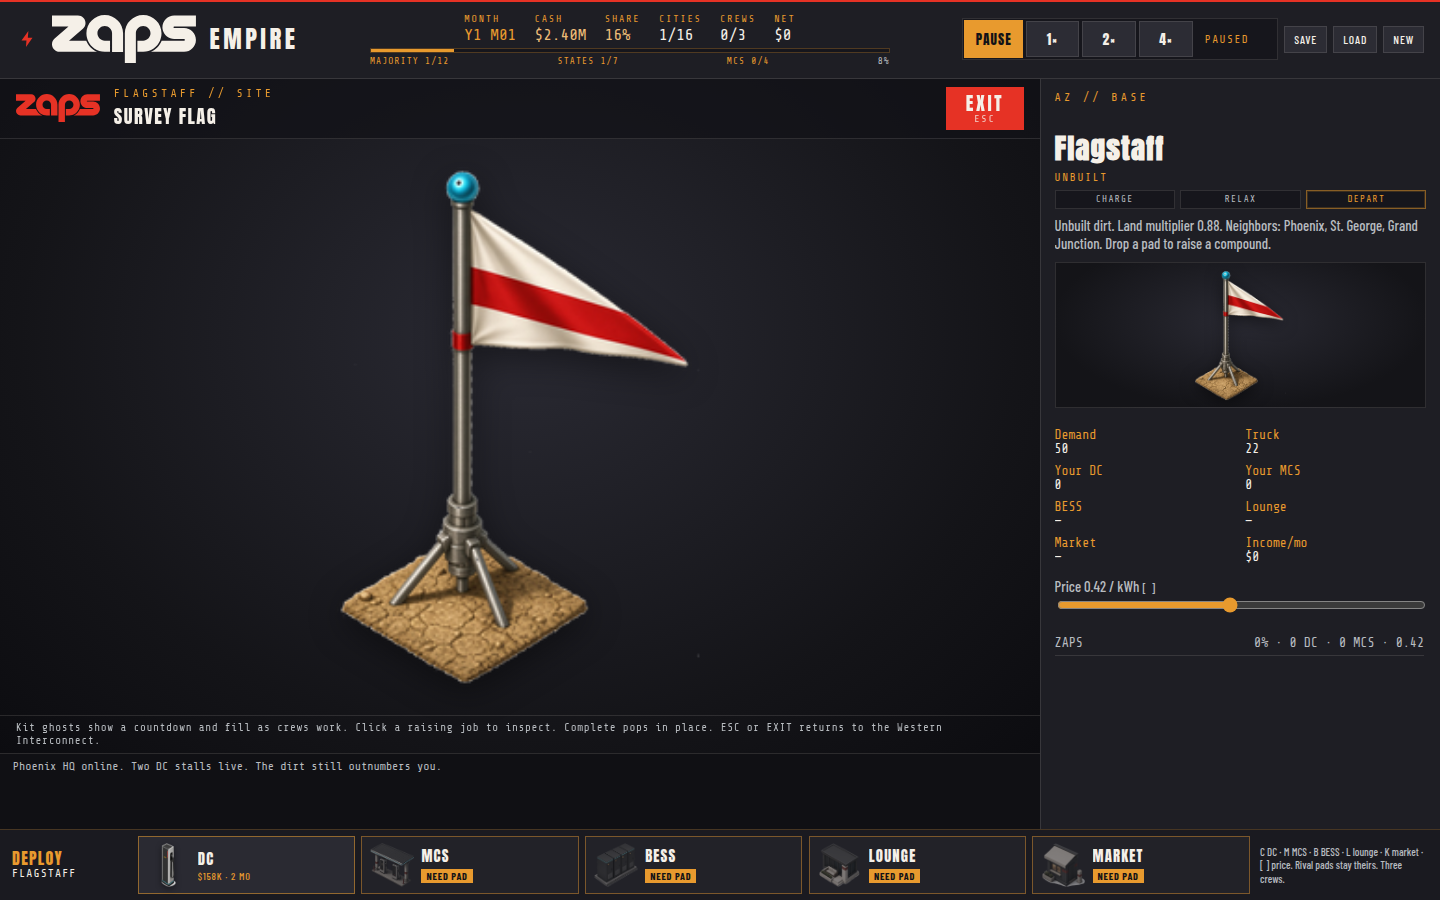
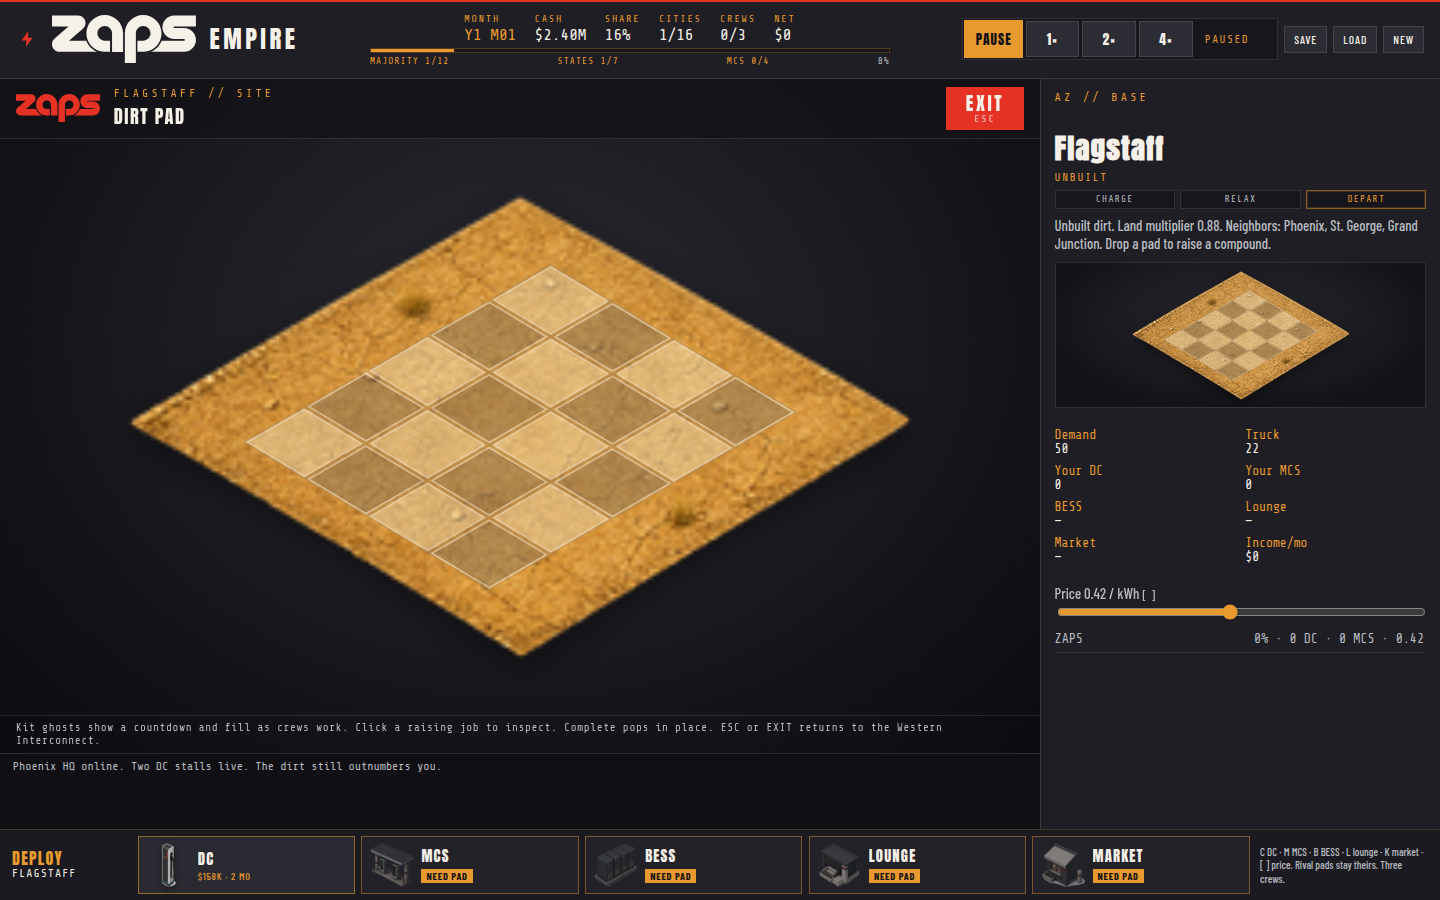
ZAPS EMPIRE: empty dirt pad, MCS violet ghost, field-call dock (rts-yard-16) (#26)
* ZAPS EMPIRE: empty dirt pad, MCS violet ghost, field-call dock (rts-yard-16)

Claimable empties open as a dirt chessboard instead of a survey-flag photo.
MCS raising ghosts use violet, not error red. Field-call sheet docks on the
map so inspector price and [ ] stay visible.

* Brighten MCS raising ghost to a clear lilac, not maroon

Keep violet language distinct from cyan DC/BESS and amber MARKET
while making the prism read as kit, never as a blocked/error edge.

* Refresh checked-in stills: dirt chessboard, violet MCS, docked field-call

Replace stale survey-flag heroes in yard-empty/yard-pad. Add yard-ghosts
and yard-event so REVIEW evidence matches live ?shot=empty/ghosts/event.

---------

diff --git a/game.js b/game.js
@@ -1,5 +1,5 @@
 /* ZAPS EMPIRE — Civ / C&C charging-continent board. Not the night-shift walk. */
-/* empire-build: rts-yard-15 */
+/* empire-build: rts-yard-16 */
 (() => {
   const SAVE_KEY = "zaps-empire-v2";
   const SAVE_LEGACY = "zaps-empire-v1";
@@ -22,7 +22,7 @@
     lot: "#F5F0E8",
   };
   const BOLT = "assets/brand/bolt-red.svg";
-  const SPRITE_V = "rts-yard-15";
+  const SPRITE_V = "rts-yard-16";
   const MAP_SPRITES = {
     flag: `assets/sprites/survey-flag.png?v=${SPRITE_V}`,
     dirt: `assets/sprites/dirt-pad.png?v=${SPRITE_V}`,
@@ -43,7 +43,7 @@
     voltspan: "240 / 204",
     rival: "240 / 167",
   };
-  const KIT_V = "rts-yard-15";
+  const KIT_V = "rts-yard-16";
   const KIT_SPRITES = {
     dc: `assets/sprites/kit-dc.png?v=${KIT_V}`,
     mcs: `assets/sprites/kit-mcs.png?v=${KIT_V}`,
@@ -982,6 +982,7 @@
     });
     row.append(yes, no);
     sheet.append(k, h, p, row);
+    sheet.classList.toggle("field-call", Boolean(state.pendingEvent));
     sheet.classList.remove("hidden");
   }
 
@@ -1755,8 +1756,10 @@
   }
 
   function yardBaseKind(city, meta) {
-    if (playerYard(city)) return "dirt";
-    return overlayBaseKind(mapSpriteKind(city, meta));
+    // Claimable empties and Zaps yards share the dirt chessboard.
+    // Rival compounds keep their photos. Do not paint a survey-flag hero.
+    if (rivalSite(city)) return overlayBaseKind(mapSpriteKind(city, meta));
+    return "dirt";
   }
 
   function jobList(cityId, type) {
@@ -1916,7 +1919,8 @@
       return { top: "#6a5a48", front: "#4a3e34", side: "#3a322c", edge: "rgba(232,154,46,0.95)" };
     }
     if (kind === "mcs") {
-      return { top: "#5a4848", front: "#3e3234", side: "#32282a", edge: "rgba(230,50,37,0.9)" };
+      // Electric violet — distinct from cyan DC/BESS and amber MARKET, never error-red.
+      return { top: "#9a86c8", front: "#7a68b0", side: "#645694", edge: "rgba(216,196,255,1)" };
     }
     if (kind === "bess") {
       return { top: "#3a4a52", front: "#2a383e", side: "#222e34", edge: "rgba(0,212,245,0.95)" };
@@ -2302,9 +2306,8 @@
   function kitLayersHtml(city) {
     const occ = kitOccupancy(city);
     const any = occ.dc + occ.mcs + occ.bess + occ.lounge + occ.market;
-    if (!any) return "";
     const inner =
-      plazaGeom(occ) +
+      (any ? plazaGeom(occ) : boardEtch()) +
       drawBess(occ) +
       drawMcs(occ) +
       drawLounge(occ) +
@@ -2312,7 +2315,7 @@
       drawDcCanopy(occ) +
       drawDcRow(occ) +
       ghostCaptions(occ);
-    return overlaySvg("site-compound", inner);
+    return overlaySvg(any ? "site-compound" : "site-compound empty-board", inner);
   }
 
   function siteRaisingBanner(cityId) {
@@ -2420,7 +2423,7 @@
       ? "RIVAL SITE"
       : contested
         ? "CONTESTED"
-        : SITE_TYPE_NAME[kind] || "SITE";
+        : SITE_TYPE_NAME[baseKind] || SITE_TYPE_NAME[kind] || "SITE";
     const intel = $("site-overlay-intel");
     if (intel) {
       const rival = strongestRival(city);
@@ -2889,6 +2892,16 @@
       selected = "phoenix";
       return "phoenix";
     }
+    if (name === "ghosts" || name === "raising-mcs" || name === "mcs-ghost") {
+      z("flagstaff").dc = 2;
+      state.queue.push(
+        { faction: YOU, city: "flagstaff", type: "mcs", left: 3, cost: 0 },
+        { faction: YOU, city: "flagstaff", type: "bess", left: 4, cost: 0 },
+        { faction: YOU, city: "flagstaff", type: "market", left: 2, cost: 0 }
+      );
+      selected = "flagstaff";
+      return "flagstaff";
+    }
     if (name === "rival" || name === "rival-blocked") {
       selected = "la";
       return "la";
@@ -3005,7 +3018,7 @@
   }
 
   window.__EMPIRE_SMOKE__ = {
-    build: "rts-yard-15",
+    build: "rts-yard-16",
     hitR: CITY_HIT_R,
     goldilocks: 0.76,
     nearestCity,

diff --git a/styles.css b/styles.css
@@ -1,4 +1,4 @@
-/* empire-build: rts-yard-15 */
+/* empire-build: rts-yard-16 */
 :root {
   --red: #e63225;
   --charcoal: #1e1e24;
@@ -826,6 +826,15 @@ button {
   fill: rgba(90, 70, 42, 0.2);
 }
 
+.site-overlay-svg.empty-board .site-board-etch {
+  fill: rgba(232, 210, 160, 0.34);
+  stroke: rgba(245, 240, 232, 0.5);
+}
+
+.site-overlay-svg.empty-board .site-board-etch.odd {
+  fill: rgba(90, 70, 42, 0.34);
+}
+
 .site-tile-curb {
   fill: #efe6d4;
   stroke: #9a8460;
@@ -891,8 +900,8 @@ button {
 }
 
 .site-tile-reserve.kind-mcs {
-  stroke: #e63225;
-  fill: rgba(230, 50, 37, 0.12);
+  stroke: #c4a8ff;
+  fill: rgba(196, 168, 255, 0.22);
 }
 
 .site-tile-reserve.kind-lounge {
@@ -916,7 +925,7 @@ button {
 }
 
 .site-tile-progress.kind-mcs {
-  fill: rgba(230, 50, 37, 0.3);
+  fill: rgba(196, 168, 255, 0.4);
 }
 
 .site-tile-progress.kind-lounge {
@@ -1084,7 +1093,7 @@ button {
 }
 
 .site-stall.mcs {
-  stroke: rgba(230, 50, 37, 0.55);
+  stroke: rgba(196, 168, 255, 0.85);
 }
 
 .site-equip {
@@ -1414,27 +1423,38 @@ button {
 }
 
 .deal-sheet {
-  position: fixed;
-  top: 72px;
-  right: 16px;
-  z-index: 36;
-  width: min(340px, 92vw);
+  position: absolute;
+  top: 12px;
+  left: 12px;
+  right: auto;
+  z-index: 30;
+  width: min(360px, calc(100% - 24px));
+  max-width: 360px;
   background: var(--panel);
   border: 1px solid var(--amber);
-  padding: 0.9rem 1rem;
+  padding: 0.55rem 0.7rem 0.6rem;
   box-shadow: 0 12px 32px rgba(0, 0, 0, 0.5);
+}
+
+.map-stage:has(.site-overlay:not(.hidden)) .deal-sheet {
+  top: 64px;
+}
+
+.deal-sheet .kicker {
+  margin: 0 0 0.2rem;
 }
 
 .deal-sheet h3 {
   font-family: Anton, sans-serif;
-  margin: 0 0 0.4rem;
-  font-size: 1.35rem;
+  margin: 0 0 0.25rem;
+  font-size: 1.15rem;
+  letter-spacing: 0.04em;
 }
 
 .deal-sheet p {
   color: var(--steel);
-  font-size: 0.88rem;
-  margin: 0 0 0.8rem;
+  font-size: 0.8rem;
+  margin: 0 0 0.5rem;
 }
 
 .deal-sheet .modal-actions {
@@ -1541,7 +1561,12 @@ button {
 }
 
 .price-row {
-  margin: 0.8rem 0;
+  position: sticky;
+  bottom: 0;
+  z-index: 3;
+  margin: 0.55rem 0 0;
+  padding: 0.45rem 0 0.15rem;
+  background: linear-gradient(180deg, rgba(30, 30, 36, 0) 0%, var(--charcoal) 28%);
 }
 
 .price-row small {

diff --git a/index.html b/index.html
@@ -15,8 +15,8 @@
       href="https://fonts.googleapis.com/css2?family=Anton&family=Barlow+Condensed:wght@500;600;700&family=Share+Tech+Mono&display=swap"
       rel="stylesheet"
     />
-    <meta name="empire-build" content="rts-yard-15" />
-    <link rel="stylesheet" href="styles.css?v=rts-yard-15" />
+    <meta name="empire-build" content="rts-yard-16" />
+    <link rel="stylesheet" href="styles.css?v=rts-yard-16" />
   </head>
   <body>
     <section id="title-screen" class="screen" data-screen="title">
@@ -167,6 +167,7 @@
                 returns to the Western Interconnect.
               </p>
             </div>
+            <aside id="deal-sheet" class="deal-sheet hidden" aria-live="polite"></aside>
           </div>
           <aside class="ticker" id="ticker" aria-live="polite"></aside>
         </div>
@@ -199,12 +200,11 @@
     </section>
 
     <div id="toasts" class="toasts" aria-live="polite"></div>
-    <aside id="deal-sheet" class="deal-sheet hidden" aria-live="polite"></aside>
 
     <div id="modal" class="modal hidden" role="dialog" aria-modal="true">
       <div class="modal-card" id="modal-card"></div>
     </div>
 
-    <script src="game.js?v=rts-yard-15"></script>
+    <script src="game.js?v=rts-yard-16"></script>
   </body>
 </html>

diff --git a/docs/shots/REVIEW.md b/docs/shots/REVIEW.md
@@ -1,8 +1,8 @@
-# Empire playtest — rts-yard-15
+# Empire playtest — rts-yard-16
 
-Replay stills (paused board, no title): `?shot=board` · `?shot=empty` (Flagstaff dirt) · `?shot=raising` · `?shot=full` · `?shot=rival` (LA blocked tray) · `?shot=contested` (Vegas share meters) · `?shot=event` (MATCH/HOLD field call) · `?showcase=1`.
+Replay stills (paused board, no title): `?shot=board` · `?shot=empty` (Flagstaff dirt chessboard) · `?shot=ghosts` (MCS violet + BESS/MARKET) · `?shot=raising` · `?shot=full` · `?shot=rival` (LA blocked tray) · `?shot=contested` (Vegas share meters) · `?shot=event` (MATCH/HOLD field call, inspector price visible) · `?showcase=1`.
 
-Checked-in frames: `board.png` · `yard-empty.png` · `yard-raising.png` · `yard-full.png` · `yard-rival.png` · `yard-contested.png`.
+Checked-in frames: `board.png` · `yard-empty.png` · `yard-pad.png` · `yard-ghosts.png` · `yard-event.png` · `yard-raising.png` · `yard-full.png` · `yard-rival.png` · `yard-contested.png`.
 
 ## Visual (Terminal Electromat)
 
@@ -11,9 +11,10 @@ Yards are miniature Electromat compounds, not generic RTS cubes.
 - **DC** — Slim Zeus row: tall brushed-aluminum pedestals, charcoal recess, amber display, red mark, twin holsters, cyan base hairline, short cables.
 - **Canopy** — thin cream roof, cylindrical aluminum posts, recessed warm coffers, cyan edge, thin red fascia.
 - **Lounge** — cream pavilion silhouette, smoked portals with amber glow, aluminum lip. No forced cyan in the lounge core.
-- **MCS** — truck island: low charcoal cabinet + heavier dispensers under an aluminum bay.
+- **MCS** — truck island: low charcoal cabinet + heavier dispensers under an aluminum bay. Raising ghosts use **violet** edges (not error red).
 - **BESS** — cabinet farm with amber data strips (not cyan-capped cubes).
 - **Market** — charcoal kiosk, cream awning, amber board.
+- **Empty claimable** — dirt-pad photo + empty 5×4 chessboard etch. No survey-flag hero.
 
 Chessboard snap and Goldilocks frame (76% / cap 800) are unchanged.
 
@@ -21,12 +22,12 @@ Chessboard snap and Goldilocks frame (76% / cap 800) are unchanged.
 
 - Contested markets pull harder on price (elasticity 1.85) and take corridor pull from neighboring pads.
 - Rivals prefer fighting cities you already hold — lounge/market first, occasional cent cuts.
-- Field calls fire earlier and more often (about every 2–4 months): undercut, grid strain, amenity lounge, corridor poach. The sheet auto-opens. MATCH / HOLD / QUEUE LOUNGE stay real decisions.
+- Field calls fire earlier and more often (about every 2–4 months): undercut, grid strain, amenity lounge, corridor poach. The sheet auto-opens **on the map column** so inspector price + `[` `]` stay visible. MATCH / HOLD / QUEUE LOUNGE stay real decisions.
 - HUD campaign track shows continental share plus MAJORITY / STATES / MCS toward the win.
 
 ## UX
 
-Deploy tray and inspector are amber-on-charcoal terminal UI. CHARGE / RELAX / DEPART triad on the inspector. Toasts stack (up to 3), stats tick, share meters animate.
+Deploy tray and inspector are amber-on-charcoal terminal UI. CHARGE / RELAX / DEPART triad on the inspector. Toasts stack (up to 3), stats tick, share meters animate. Inspector price row is sticky.
 
 ## Ownership (hold from #24)
 
@@ -40,12 +41,14 @@ Goldilocks yard scale **unchanged**: full pad + a bit of sand margin, about **76
 
 ## Playtest notes
 
-1. Open `?shot=empty` — Flagstaff dirt, DC live, Slim Zeus ghost on hover.
-2. Open `?shot=raising` — Phoenix ghosts with coffered canopy already live on the two-stall row.
-3. Open `?shot=full` — Flagstaff reads as a station: Zeus row, MCS island, BESS farm, lounge pavilion, market kiosk.
-4. Open `?shot=rival` — LA overlay reads RIVAL SITE, tray chips amber, DC click does not enqueue.
-5. Open `?shot=contested` — Vegas meters Zaps vs VOLTSPAN; drag price, share toast/flash.
-6. Open `?shot=board` — campaign track under the resource bar. Phoenix still starts paused.
+1. Open `?shot=empty` — Flagstaff dirt pad, empty 5×4 chessboard, no flag photo. DC hover still ghosts a Slim Zeus.
+2. Open `?shot=ghosts` — Flagstaff MCS raising ghost is violet, not red, next to cyan BESS and amber MARKET.
+3. Open `?shot=event` — FIELD CALL docks on the yard; MATCH / HOLD stay on the map. Inspector price slider and `[` `]` remain visible.
+4. Open `?shot=raising` — Phoenix ghosts with coffered canopy already live on the two-stall row.
+5. Open `?shot=full` — Flagstaff reads as a station: Zeus row, MCS island, BESS farm, lounge pavilion, market kiosk.
+6. Open `?shot=rival` — LA overlay reads RIVAL SITE, tray chips amber, DC click does not enqueue.
+7. Open `?shot=contested` — Vegas meters Zaps vs VOLTSPAN; drag price, share toast/flash.
+8. Open `?shot=board` — campaign track under the resource bar. Phoenix still starts paused.
 
 ## Verdict
 
@@ -54,7 +57,9 @@ Goldilocks yard scale **unchanged**: full pad + a bit of sand margin, about **76
 | Instant-read silhouettes | **RAISE** | Zeus ≠ MCS island ≠ BESS farm ≠ lounge pavilion ≠ market kiosk |
 | Terminal Electromat look | **RAISE** | cream coffers, Slim Zeus, lounge portals |
 | Rival pad seizure | **HOLD** | LA/Dallas/Denver tray = RIVAL SITE; enqueue no-ops |
-| Empty claim | **HOLD** | Flagstaff DC still deploys |
+| Empty claim | **RAISE** | Flagstaff opens as dirt chessboard, not survey-flag photo |
+| MCS ghost language | **RAISE** | violet, not error-red; still ≠ cyan DC/BESS ≠ amber MARKET |
+| Field-call agency | **RAISE** | sheet docks on the map; inspector price + `[` `]` stay up |
 | Contested share | **RAISE** | steeper price fight + corridor pull + heat |
 | Decision events | **RAISE** | undercut / strain / amenity / poach, auto-open |
 | Win / progress | **RAISE** | HUD campaign track MAJORITY / STATES / MCS |
@@ -64,4 +69,4 @@ Goldilocks yard scale **unchanged**: full pad + a bit of sand margin, about **76
 | Yard framing | **HOLD** | Stack still ~76% of yard (cap 800) |
 | Brand | **HOLD** | Official cream/red wordmarks |
 
-Economy core numbers untouched except share reacting harder when a market is contested. Night Shift untouched. Cache `rts-yard-15`.
+Economy core numbers untouched except share reacting harder when a market is contested. Night Shift untouched. Cache `rts-yard-16`.
